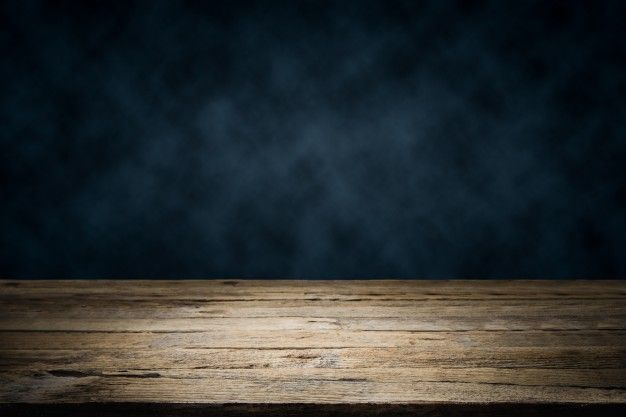
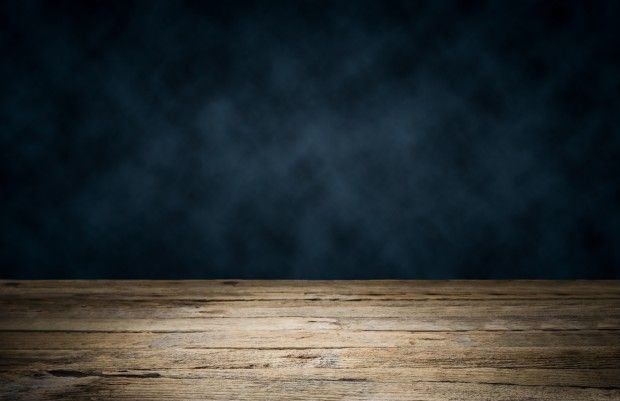
limpieza de código y modif estilos

Changed region(s): [[0.0, 0.6584, 1.0, 1.0]]

diff --git a/src/app/waiter-menu/waiter-menu.component.ts b/src/app/waiter-menu/waiter-menu.component.ts
@@ -1,6 +1,5 @@
 import { Component, OnInit, OnDestroy } from '@angular/core';
 import { Subscription } from 'rxjs';
-import { DataService } from '../services/data.service';
 import { MenuService } from '../services/menu.service';
 import { CartService } from '../services/cart.service';
 import { Detalle } from '../interfaz/order.interface';
@@ -27,8 +26,7 @@ export class WaiterMenuComponent implements OnInit, OnDestroy {
 
   constructor(private service: MenuService, //db de firebase
     //private shareData: ShareDataService, //servicio para compartir info
-    private cartService: CartService,
-    private dataService: DataService) { //Servicio del numero de mesa y nombre de cliente
+    private cartService: CartService) { //Servicio del numero de mesa y nombre de cliente
   };
 
   // Ejecuta funciones al cargar vista
@@ -39,7 +37,7 @@ export class WaiterMenuComponent implements OnInit, OnDestroy {
     //console.log(this.itemsCart);
 
     //Aqui me suscribo al servicio
-    this.dataService.tablesEvent$.subscribe(numMesa => {
+    this.service.tablesEvent$.subscribe(numMesa => {
       localStorage.setItem("mesa", numMesa) //guardo el numero de mesa
     })
     this.numberTable = localStorage.getItem("mesa") //obtengo el num de mesa
@@ -70,19 +68,19 @@ export class WaiterMenuComponent implements OnInit, OnDestroy {
       this.itemsMenuFilter = this.getBreakfastItem();
     });
   }
-/*
-  //Trae id de documentos de la colección "Pedidos"
-  getId() {
-  this.service.getOrdeDoc(this.id).subscribe(
-    content => {
-      console.log(content);
-    }
-  )
-}
-  id(id: any) {
-    throw new Error('Method not implemented.');
+  /*
+    //Trae id de documentos de la colección "Pedidos"
+    getId() {
+    this.service.getOrdeDoc(this.id).subscribe(
+      content => {
+        console.log(content);
+      }
+    )
   }
-  */
+    id(id: any) {
+      throw new Error('Method not implemented.');
+    }
+    */
 
   saveNameClient(event: Event) {
     const element = event.target as HTMLInputElement;

diff --git a/src/app/home/home.component.scss b/src/app/home/home.component.scss
@@ -10,7 +10,7 @@ $color-words: #fff;
     /*para mover el modelo de caja*/
 }
 .home{
-    background-image: url(../../assets/img/fondo.jpg);
+    background-image: url(../../assets/img/fondo1.jpg);
     background-repeat: no-repeat;
     background-size: 100% 100%;    
 }
@@ -25,37 +25,6 @@ $color-words: #fff;
     font-weight: 300;
     font-size: 50px;
     line-height: 136px;
-    color: #FFFFFF;
-}
-
-.btn-waiter, .btn-chef {
-    width: 7rem;
-    height: 3.5rem;
-    background: #EFB22C;
-    border-radius: 20px;
-    background-position: 1rem;
-    background-size: 1.5rem;
-    background-repeat: no-repeat;
-    margin-bottom: 1.5rem;
-    border: none;
-}
-
-.btn-waiter {
-    background-image: url(../../assets/img/chef-masculino.png);
-}
-
-.btn-chef {
-    background-image: url(../../assets/img/mesero.png)
-}
-
-.btn-text {
-    font-family: Rubik;
-    font-style: normal;
-    font-weight: normal;
-    font-size: 20px;
-    line-height: 44px;
-    margin-left: 1.6rem;
-    text-decoration: none;
     color: #FFFFFF;
 }
 
@@ -79,12 +48,6 @@ $color-words: #fff;
     width: 24rem;
     margin-top: 1rem;
     height: 35rem;
-}
-
-.container-logo {
-    display: flex;
-    flex-direction: column;
-    margin-left: 208px;
 }
 
 .img-logo {

diff --git a/src/app/home/home.component.html b/src/app/home/home.component.html
@@ -6,21 +6,9 @@
         </section>
         <section class="section-btnHome">
             <app-sign-in></app-sign-in>
-            <!-- <button (click)="openModal()" class="btn-waiter">
-                <h1 class="btn-text">Mesero</h1>
-            </button>
-            <button (click)="openModal()" class="btn-chef">
-                <h1 class="btn-text">Chef</h1>
-            </button>
-            <button (click)="openModal()" class="btn-chef">
-                <h1 class="btn-text">Administrador</h1>
-            </button> -->
             <div>
                 <img class="img-logo" src="../../assets/img/logo.png" alt="logo luna burguer">
             </div>
         </section>
-    </div>
-    <div class="" *ngIf="modalSwitch == true">
-        <app-modal-component></app-modal-component>
     </div>
 </main>

diff --git a/src/app/services/menu.service.ts b/src/app/services/menu.service.ts
@@ -1,4 +1,4 @@
-import { Injectable } from '@angular/core';
+import { EventEmitter, Injectable } from '@angular/core';
 import { Observable } from 'rxjs';
 import { map } from 'rxjs/operators'
 import { AngularFirestore } from '@angular/fire/compat/firestore';
@@ -7,6 +7,11 @@ import { AngularFirestore } from '@angular/fire/compat/firestore';
   providedIn: 'root'
 })
 export class MenuService {
+
+  tablesEvent$ = new EventEmitter<string>(); //numero de mesa
+
+  //creamos un objeto observable, que vamos a poder ver cuando cambia su valor 
+  $modal = new EventEmitter<any>(); //permite comunicar componentes 
 
   constructor(private firestoreMenu: AngularFirestore) {
   }

diff --git a/src/app/modal-component/modal-component.component.ts b/src/app/modal-component/modal-component.component.ts
@@ -1,5 +1,5 @@
 import { Component, OnInit } from '@angular/core';
-import { DataService } from '../services/data.service'
+import { MenuService } from '../services/menu.service';
 
 @Component({
   selector: 'app-modal-component',
@@ -9,7 +9,7 @@ import { DataService } from '../services/data.service'
 export class ModalComponentComponent implements OnInit {
 
   //Aqui consumimos el servicio 
-  constructor(private modalSS: DataService) { }
+  constructor(private modalSS: MenuService) { }
 
   ngOnInit(): void {
   }

diff --git a/src/app/home/home.component.ts b/src/app/home/home.component.ts
@@ -1,5 +1,5 @@
 import { Component, OnInit } from '@angular/core';
-import { DataService } from '../services/data.service';
+import { MenuService } from '../services/menu.service';
 
 @Component({
   selector: 'app-home',
@@ -11,7 +11,7 @@ export class HomeComponent implements OnInit {
   modalSwitch: boolean = false;
 
   //aqui consumimos el servicio 
-  constructor(private modalSS: DataService) { }
+  constructor(private modalSS: MenuService) { }
 
 
   //esta funcion se inicia apenas se renderice el componente 

diff --git a/src/app/waiter-tables/waiter-tables.component.ts b/src/app/waiter-tables/waiter-tables.component.ts
@@ -1,5 +1,4 @@
 import { Component, OnInit } from '@angular/core';
-import { DataService } from '../services/data.service';
 
 @Component({
   selector: 'app-waiter-tables',
@@ -8,7 +7,7 @@ import { DataService } from '../services/data.service';
 })
 export class WaiterTablesComponent implements OnInit {
 
-  constructor(private dataService: DataService) { }
+  constructor() { }
 
   ngOnInit(): void {
 

diff --git a/src/app/waiter-tables/waiter-tables.component.scss b/src/app/waiter-tables/waiter-tables.component.scss
@@ -3,7 +3,11 @@ $color-mix-btn: linear-gradient(180deg, rgba(255, 197, 70, 0.9) 0%, rgba(245, 13
 $color-header:  rgba(197, 156, 54, 1);
 $color-words: #fff;
 
-
+#main-tables{
+  background-image: url(../../assets/img/fondo1.jpg);
+  background-repeat: no-repeat;
+  background-size: 100% 100%;    
+}
 
 .header{
   background-color: $color-header;
